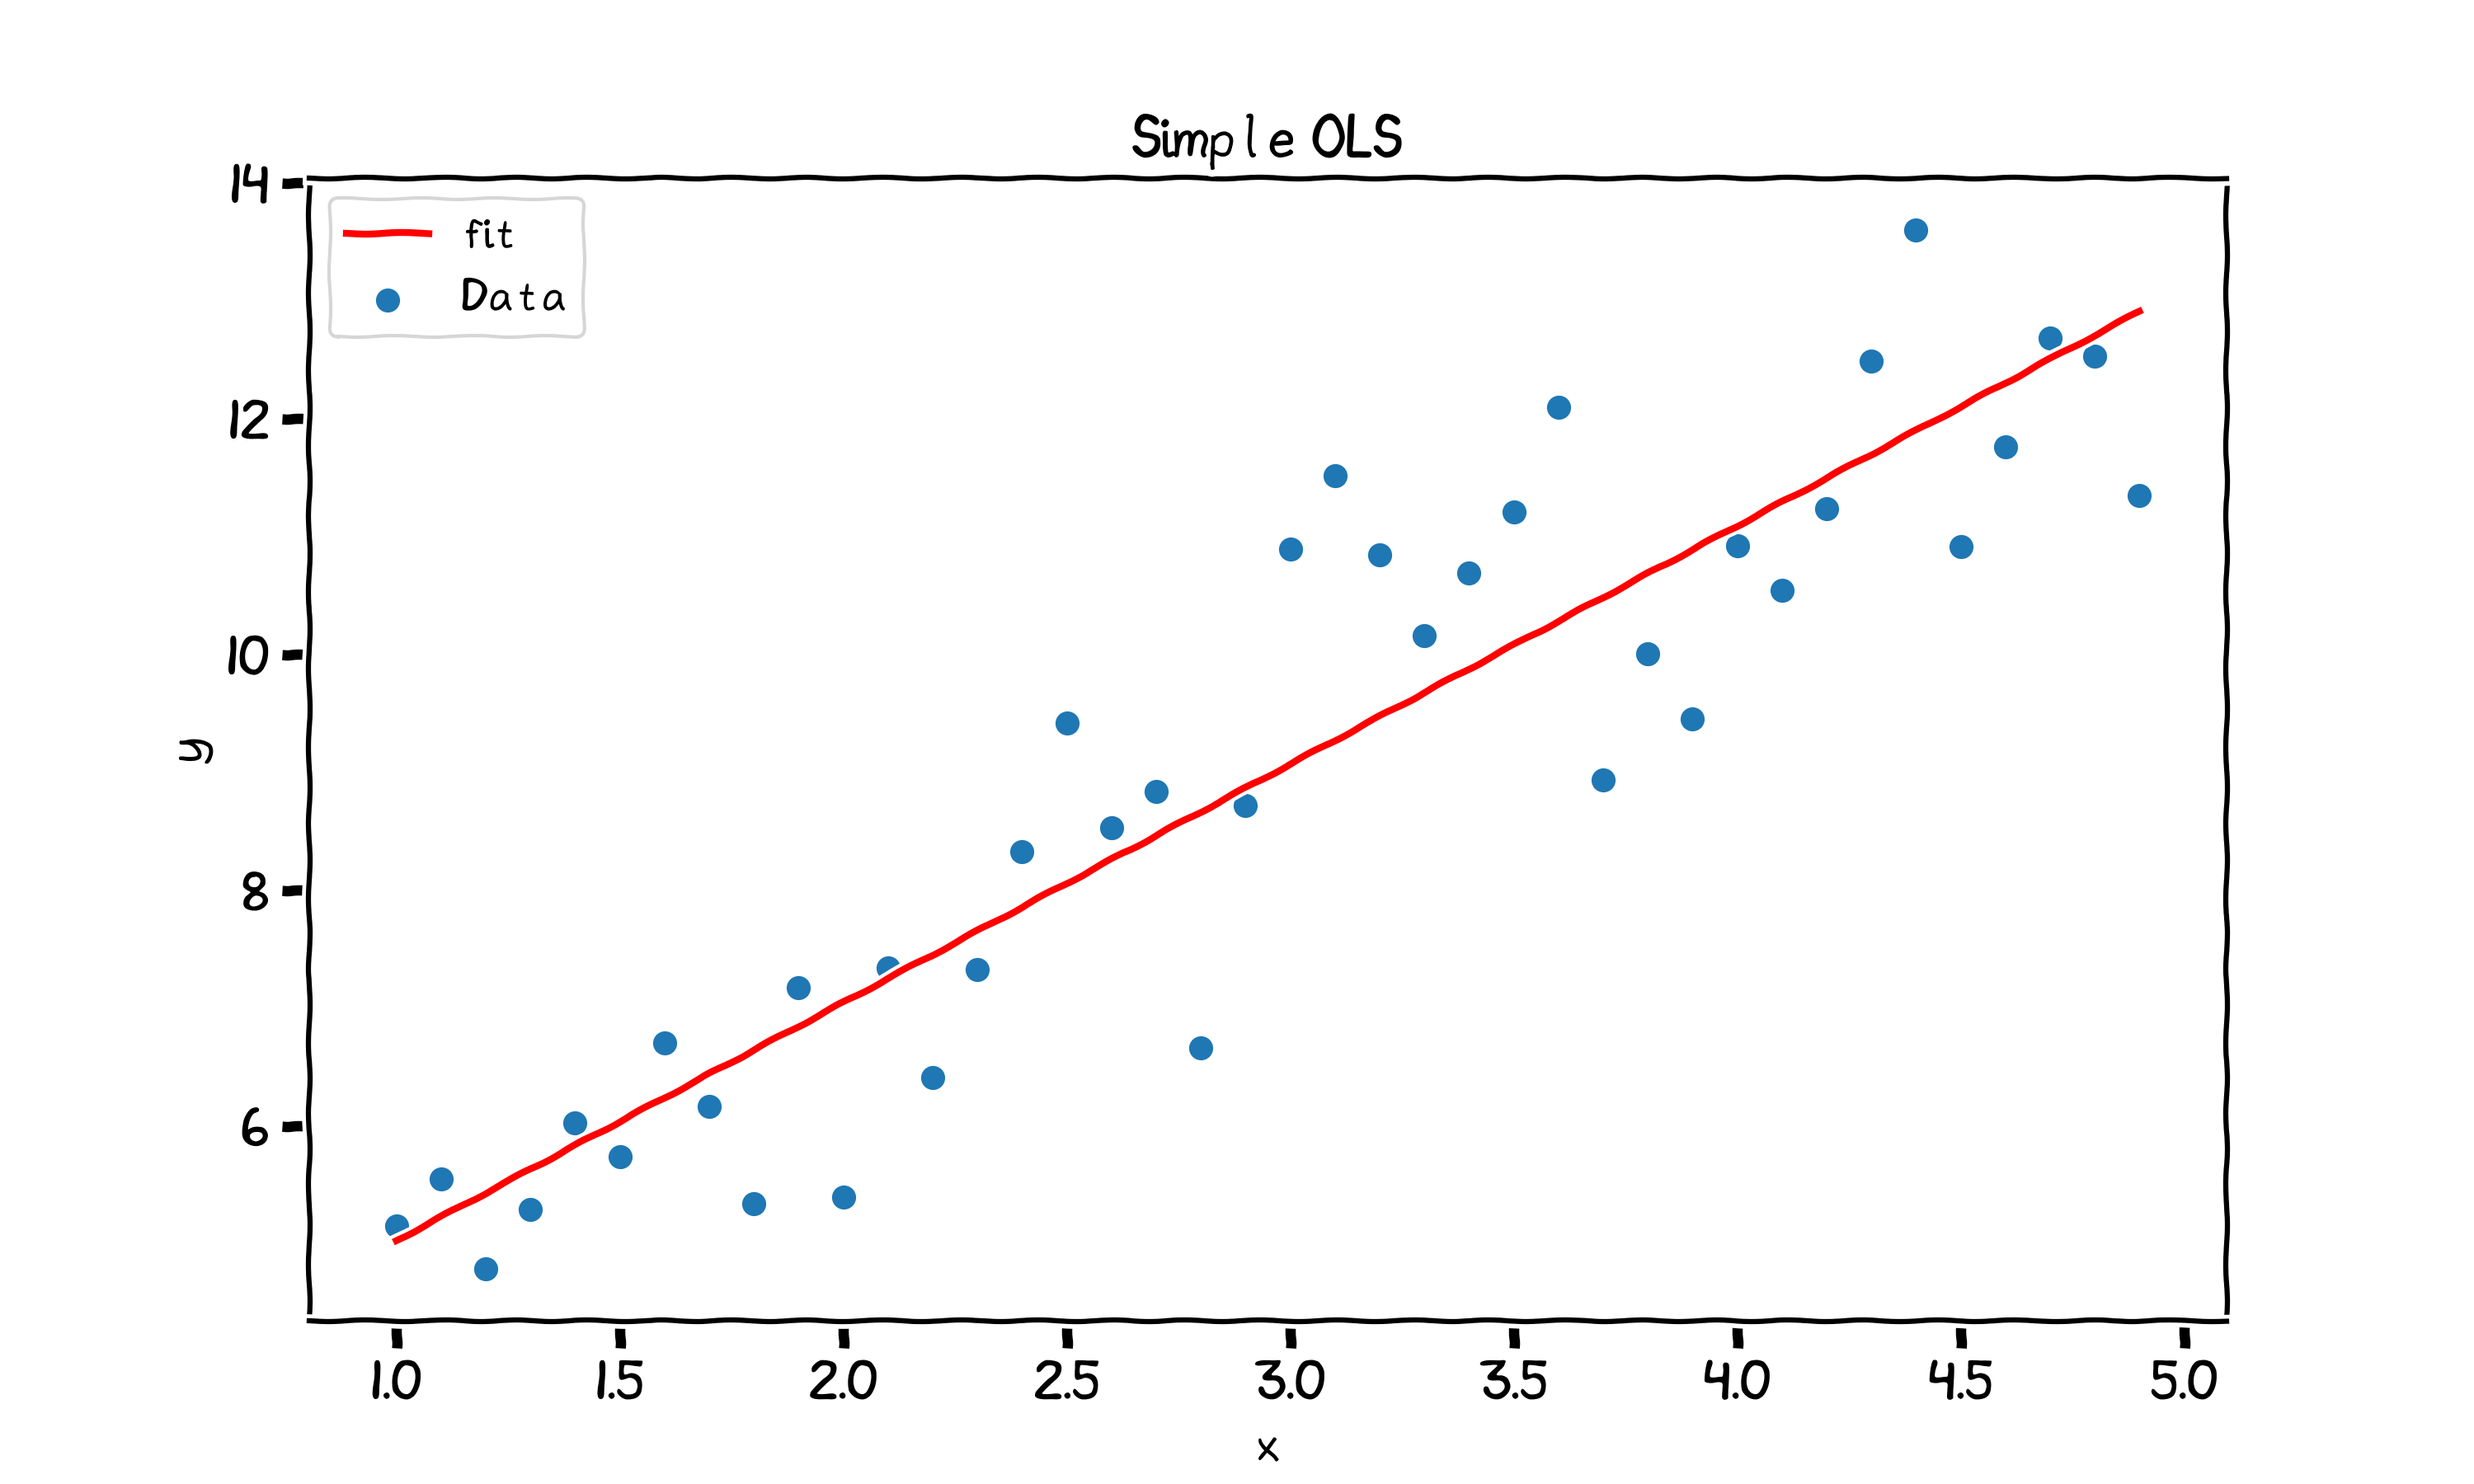
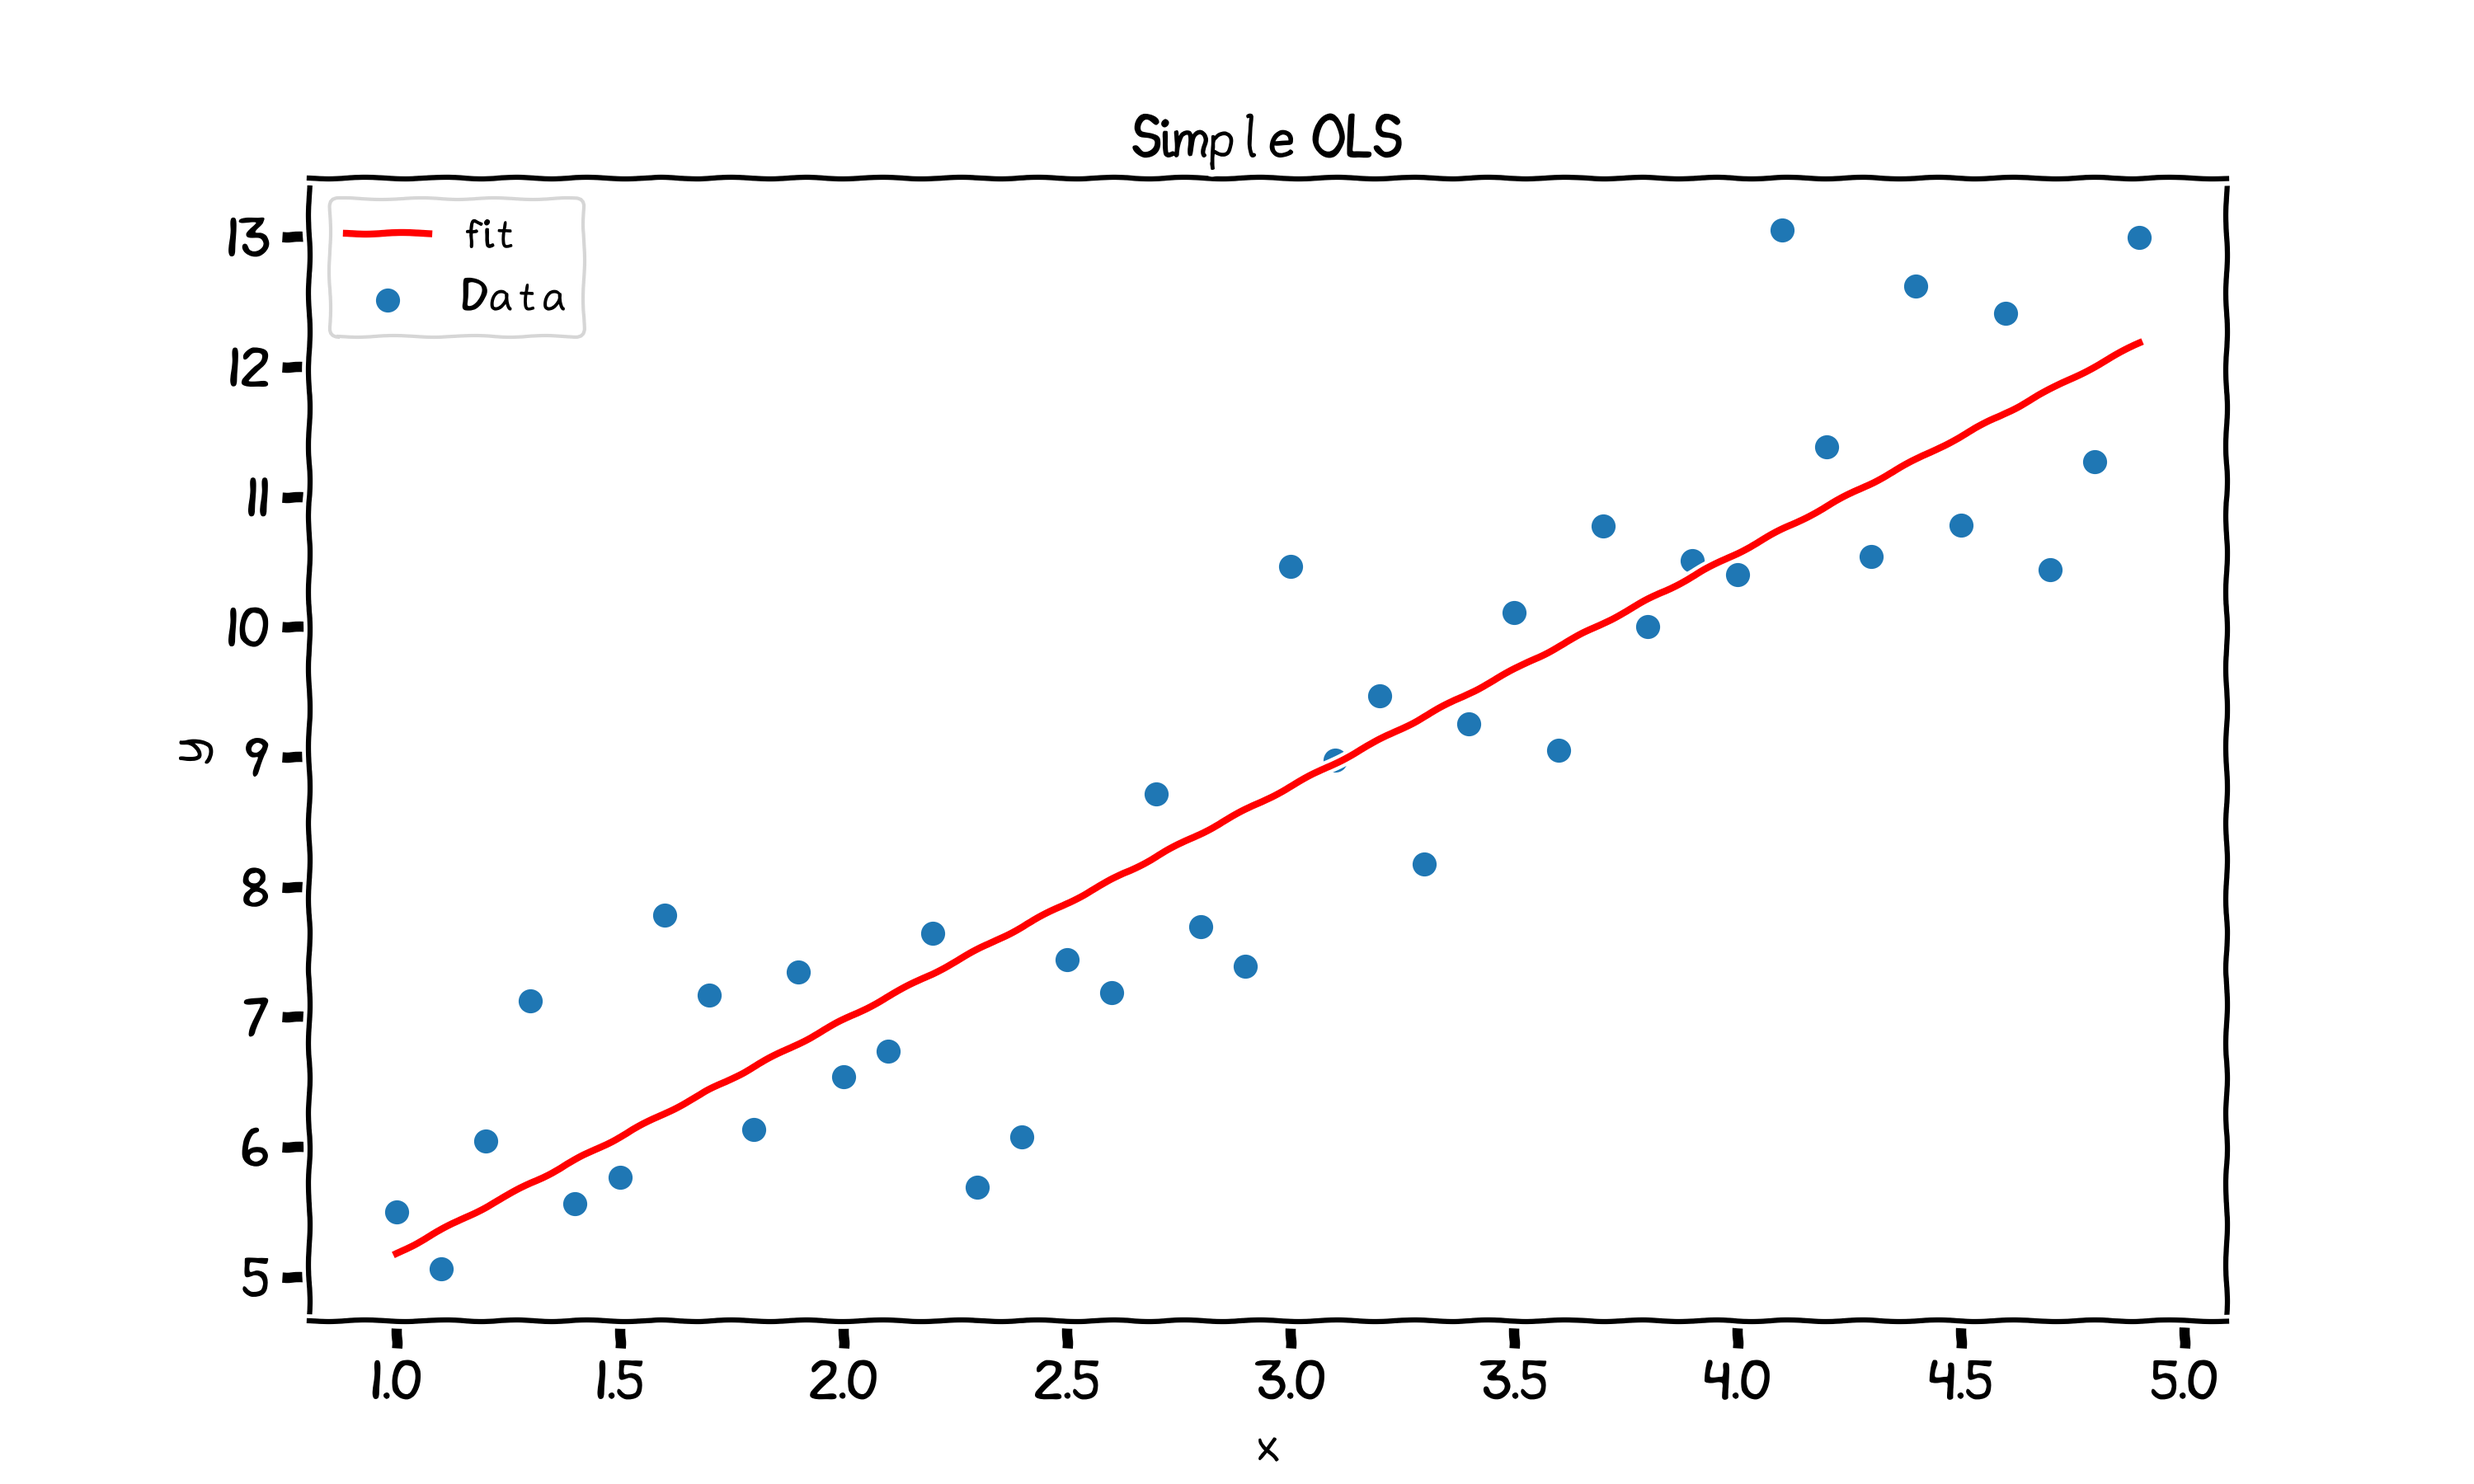
t-test for Python

diff --git a/chap3/python/ols.py b/chap3/python/ols.py
@@ -1,39 +1,94 @@
 import numpy as np
 import statsmodels.api as sm
 import matplotlib.pyplot as plt
+import scipy.stats as ss
 
-# Prepare Data to Plot
-x = np.arange(1, 5, 0.1)
-err = np.random.randn(len(x))
-y = 2 * x + 3 + err
+# ==============================================================================
+# Main
+# ==============================================================================
+def main():
+    np.random.seed(42)
 
-# X = (1 | x)
-X = np.matrix(x).T      # To Column matrix
-X = sm.add_constant(X)  # Add constant
-Y = np.matrix(y).T      # To Column matrix
+    # Prepare Data to Plot
+    x = np.arange(1, 5, 0.1)
+    err = np.random.randn(len(x))
+    y = 2 * x + 3 + err
 
+    ols = OLSEstimator(x, y)
+    ols.estimate()
+    ols.test()
+
+    print("beta:", ols.beta_hat)
+    print("t_score:", ols.t_score)
+    print("p_value:", ols.p_value)
+
+    with plt.xkcd():
+        # Prepare Plot
+        plt.figure(figsize=(10,6), dpi=300)
+        plt.title(r"Simple OLS", fontsize=16)
+        plt.xlabel(r'x', fontsize=14)
+        plt.ylabel(r'y', fontsize=14)
+
+        # Plot with Legends
+        plt.scatter(x, y, label='Data')
+        plt.plot(x, np.asarray(ols.y_hat).ravel(), 'r', label='fit')
+
+        # Other options
+        plt.legend(fontsize=12)
+
+    plt.savefig("simple_ols.png", dpi=300)
+
+
+# ==============================================================================
+# Estimate
+# ==============================================================================
 def find_beta_hat(X, y): # X should be np.matrix
     return np.linalg.pinv(X) * y
 
-def find_y_hat(X, y):
-    beta_hat = find_beta_hat(X, y)
-    return X * beta_hat
+def find_y_hat(X, beta, y):
+    return X * beta
 
-Y_hat = find_y_hat(X, Y)
+# ==============================================================================
+# Test
+# ==============================================================================
+def find_sigma_hat(y, y_hat, p):
+    return np.sum((y - y_hat)**2) / (len(y) - p - 1)
 
-with plt.xkcd():
-    # Prepare Plot
-    plt.figure(figsize=(10,6), dpi=300)
-    plt.title(r"Simple OLS", fontsize=16)
-    plt.xlabel(r'x', fontsize=14)
-    plt.ylabel(r'y', fontsize=14)
+def calc_t_score(beta, X, sigma):
+    v = np.sqrt(np.diag(np.linalg.inv(X.T * X)))
+    return (beta / v) / np.sqrt(sigma)
+
+def calc_p_value(d, z):
+    return (1 - d.cdf(z)) * 2
+
+# ==============================================================================
+# OOP Implementation
+# ==============================================================================
+class OLSEstimator:
+    def __init__(self, x, y):
+        X = np.matrix(x).T
+        X = sm.add_constant(X)
+        Y = np.matrix(y).T
+        self.X = X
+        self.Y = Y
     
-    # Plot with Legends
-    plt.scatter(x, y, label='Data')
-    plt.plot(x, np.squeeze(np.asarray(Y_hat)), 'r', label='fit')
+    def estimate(self):
+        self.beta_hat = find_beta_hat(self.X, self.Y)
+        self.y_hat = find_y_hat(self.X, self.beta_hat, self.Y)
     
-    # Other options
-    plt.legend(fontsize=12)
+    def test(self):
+        N = self.Y.shape[0]
+        p = self.X.shape[1]-1
 
-plt.savefig("simple_ols.png", dpi=300)
+        self.sigma_hat = find_sigma_hat(np.asarray(self.Y).ravel(), np.asarray(self.y_hat).ravel(), self.X.shape[1]-1)
+        self.t_score = calc_t_score(np.asarray(self.beta_hat).ravel(), self.X, self.sigma_hat)
+        
+        t_dist = ss.t(df=N-p-1)
 
+        p_fun = lambda t: calc_p_value(t_dist, t)
+        p_fun = np.vectorize(p_fun)
+
+        self.p_value = p_fun(self.t_score)
+
+if __name__ == "__main__":
+    main()
